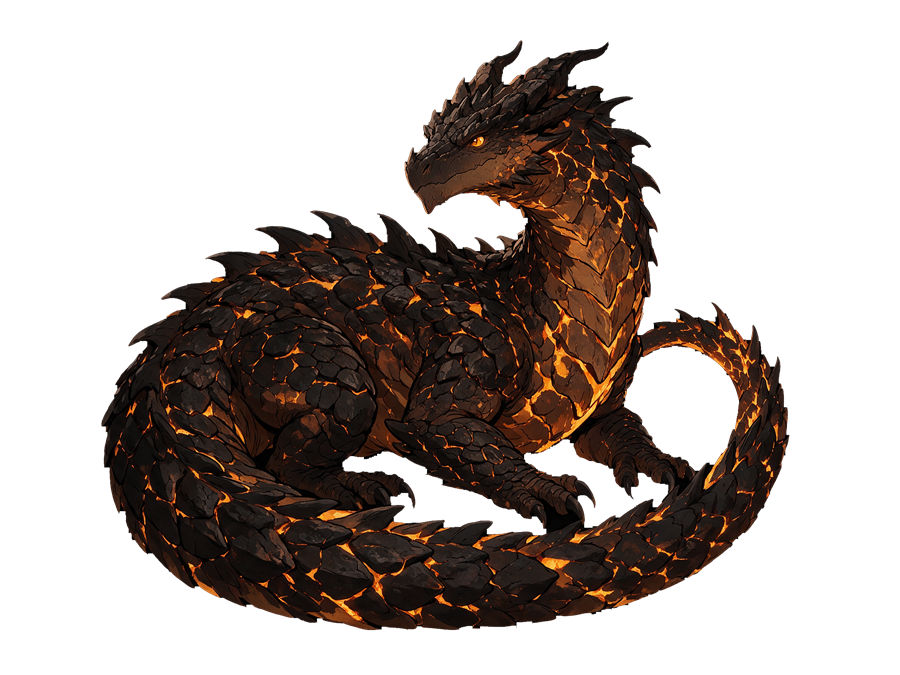
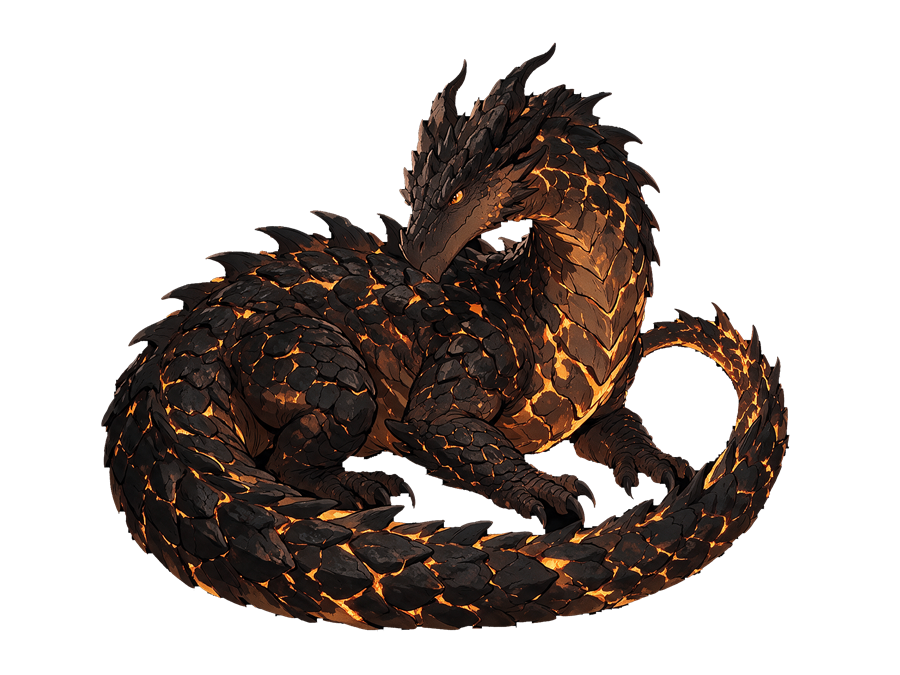
All four dragons now look down-left, and nothing else is in frame
Skyrender regenerated with the corrected direction clause -- anatomy of
the look only, plus an explicit ban on figures, ground and cast shadow.
Clean: no speck, no streak, head dropped below the shoulder line with the
gaze running out of the bottom-left corner.

Cindermaw regenerated to match, since he was the odd one out once the
other three were re-posed. Referenced against his own previous plate, so
he is the same dragon with his head lowered rather than a new one -- the
same trick that kept the mage's identity across two poses.

All four verified loading in their own duels. Keyed identically at
61-70% transparent.

diff --git a/index.html b/index.html
@@ -20,7 +20,7 @@
 <link rel="manifest" href="manifest.json">
 <link rel="icon" type="image/svg+xml" href="icon.svg">
 <link rel="apple-touch-icon" href="icon-192.png">
-<link rel="stylesheet" href="style.css?v=206">
+<link rel="stylesheet" href="style.css?v=207">
 </head>
 <body>
 <header>
@@ -48,6 +48,6 @@
   </div>
 </main>
 
-<script src="game.js?v=206"></script>
+<script src="game.js?v=207"></script>
 </body>
 </html>

diff --git a/solver.html b/solver.html
@@ -48,8 +48,8 @@
     <p>Loading…</p>
   </div>
 
-  <script src="game.js?v=206"></script>
-  <script src="solver.js?v=206"></script>
-  <script src="measure.js?v=206"></script>
+  <script src="game.js?v=207"></script>
+  <script src="solver.js?v=207"></script>
+  <script src="measure.js?v=207"></script>
 </body>
 </html>
